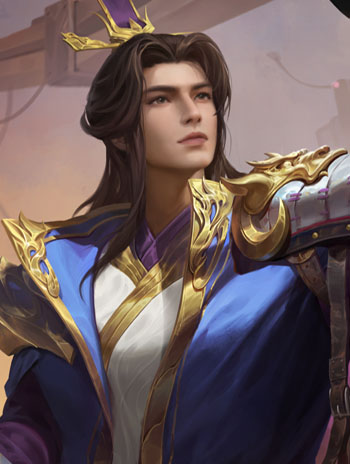
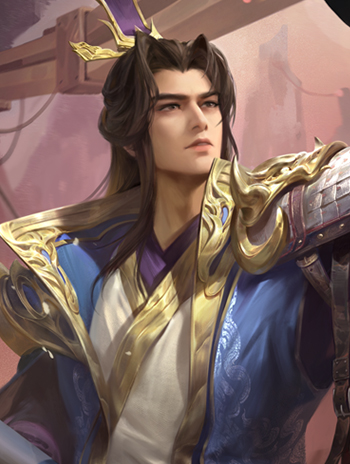
feat: 素材补充 (#3942)

diff --git a/apps/core/character/bingshi/voices.js b/apps/core/character/bingshi/voices.js
@@ -1,4 +1,13 @@
 export default {
+	"#potnigu1": "我令既不得行，我刑当得行也！",
+	"#potnigu2": "天子若有他意，我亦当复改图！",
+	"#potnigu3": "正值尽忠死战之时，何故生此迟疑！",
+	"#potnigu4": "诸卿若不奉我，便是已有反心！",
+	"#potlulian1": "我心性善，不忍见离，自许汝举族团圆！",
+	"#potlulian2": "莫言泉下孤苦，自有汝族相陪！",
+	"#potlulian3": "朝事在君，生杀在我！",
+	"#potlulian4": "本朝可无天子，可无我孙綝否？",
+	"#pot_sunchen:die": "臣无功劳亦有苦劳，望陛下饶命，饶命啊！",
 	"#potjiezhu1": "趁魏军退走，我等可急令进军。",
 	"#potjiezhu2": "虽攻敌不足，然退守有余矣。",
 	"#potjiezhu_zhuji_shadow1": "城头旌旗不倒，吴土寸步不让！",

diff --git a/apps/core/character/clan/voices.js b/apps/core/character/clan/voices.js
@@ -1,4 +1,11 @@
 export default {
+	"#clanshixi1": "满枝橘子香，小女窗前贴花黄。",
+	"#clanshixi2": "提裙扑流萤，囊灯一盏照夜读。",
+	"#clanjianbai1": "阿耶答应我的事，一定能做到。",
+	"#clanjianbai2": "花开有期，世间流水终会相逢。",
+	"#clanzelie_clan_luyusheng1": "不许哭，要做个大人。",
+	"#clanzelie_clan_luyusheng2": "转瞬之景，何故常忧我心。",
+	"#clan_luyusheng:die": "船儿总有码头，鸟儿总有窠，我又往何处去呢？",
 	"#clandingan1": "今人心思动，非天子无以讨不臣。",
 	"#clandingan2": "现大乱将起，非英杰无以定海内。",
 	"#clanfuning1": "内外协一，方定天下社稷。",

diff --git a/apps/core/character/xianding/voices.js b/apps/core/character/xianding/voices.js
@@ -1,4 +1,11 @@
 export default {
+	"#mogui1": "君子言行由心，不拘繁文缛节。",
+	"#mogui2": "心猿在役，何以俗规锁意马？",
+	"#zunjian1": "孤非桀纣，不敢讳诸师之言。",
+	"#zunjian2": "开张纳言之听，不宜引喻失义。",
+	"#rencheng1": "父祖珠玉在前，孤岂为桓灵。",
+	"#rencheng2": "在庭之木不翦，无以成栋梁。",
+	"#liuxuan:die": "千古衣冠，做了降幡。",
 	"#manyi_menghuo1": "巨象阵，迎敌！",
 	"#manyi_menghuo2": "子弟兵们，跟我上！",
 	"#manyi_zhurong1": "区区无名之辈，不劳大王出马。",

diff --git a/apps/core/character/newjiang/voices.js b/apps/core/character/newjiang/voices.js
@@ -1,4 +1,9 @@
 export default {
+	"#diyin1": "五声十二律，一管纳乾坤。",
+	"#diyin2": "昆山采蓝玉，裂石穿云，不若此间笛响。",
+	"#boqia1": "夫金石丝竹之音，发自器而通于天。",
+	"#boqia2": "天下之理，虽万变而卒归乎中。",
+	"#yj_x_xunxu:die": "夺我凤皇池，诸君贺我邪！",
 	"#bingling1": "身如冰上雪，剑如雪上霜。",
 	"#bingling2": "一点霜痕，万里寒生。",
 	"#yj_hanbing:die": "山中无甲子，寒尽不知年。",

diff --git a/apps/core/character/sp/voices.js b/apps/core/character/sp/voices.js
@@ -1,4 +1,9 @@
 export default {
+	"#olpingyuan1": "发石为锋，夷平敌军土山！",
+	"#olpingyuan2": "献此奇械，山石壁垒何足惧。",
+	"#olliaoyi1": "君之所谋，吾已了然于胸。",
+	"#olliaoyi2": "徒劳之举，吾早有应对之策。",
+	"#ol_liuye:die": "料尽天下事，难料吾之归途……",
 	"#xiaoxi_hansui1": "两军交战，勇者为胜！",
 	"#xiaoxi_hansui2": "打你个措手不及！",
 	"#xiaoxi_machao1": "快马突袭！",

diff --git a/apps/core/character/bingshi/skill.js b/apps/core/character/bingshi/skill.js
@@ -188,7 +188,7 @@ const skills = {
 	},
 	//势孙綝
 	potnigu: {
-		audio: 2,
+		audio: 4,
 		enable: "phaseUse",
 		usable: 1,
 		filter(event, player) {
@@ -278,7 +278,7 @@ const skills = {
 		},
 	},
 	potlulian: {
-		audio: 2,
+		audio: 4,
 		trigger: {
 			player: "useCardAfter",
 		},

diff --git a/apps/core/character/tw/skill.js b/apps/core/character/tw/skill.js
@@ -2475,7 +2475,7 @@ const skills = {
 		group: ["twmiewei_damage"],
 		subSkill: {
 			damage: {
-				audio: 2,
+				audio: "twmiewei",
 				forced: true,
 				locked: false,
 				trigger: { source: "damageBegin1" },
@@ -2543,7 +2543,7 @@ const skills = {
 		},
 		subSkill: {
 			effect: {
-				audio: 2,
+				audio: "twmiyong",
 				mod: {
 					aiOrder(card, player, num) {},
 				},

diff --git a/apps/core/character/clan/skill.js b/apps/core/character/clan/skill.js
@@ -1894,7 +1894,7 @@ const skills = {
 	},
 	clanzelie: {
 		audio: 2,
-		audioname: ["clan_lujing"],
+		audioname: ["clan_lujing", "clan_luyusheng"],
 		trigger: { global: ["loseAfter", "equipAfter", "addJudgeAfter", "gainAfter", "loseAsyncAfter", "addToExpansionAfter"] },
 		getIndex(event, player) {
 			return game

diff --git a/apps/core/character/mobile/skill.js b/apps/core/character/mobile/skill.js
@@ -14961,6 +14961,7 @@ const skills = {
 		},
 		subSkill: {
 			target: {
+				audio: "twruilian",
 				onremove: true,
 				intro: { content: "已选择$" },
 				trigger: { global: "phaseEnd" },